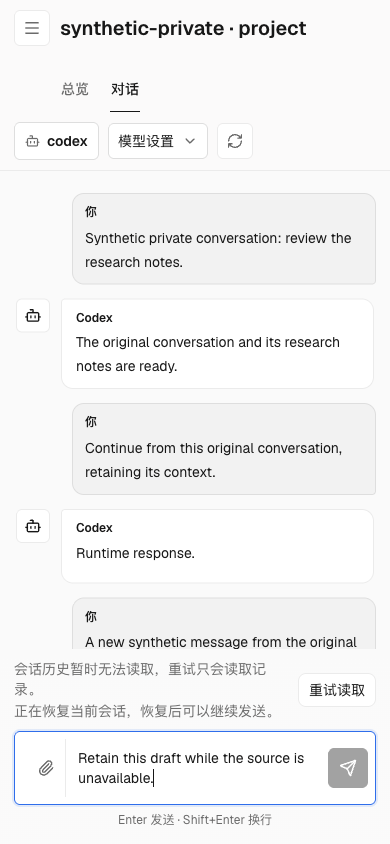
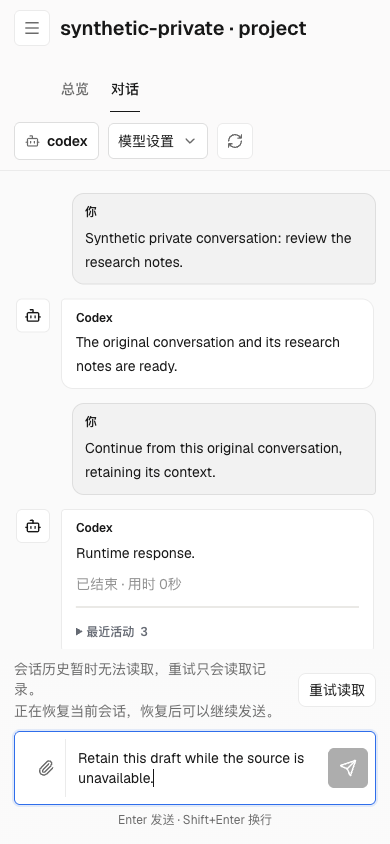
refactor(chat): keep source readback outside configuration controls

Changed region(s): [[0.1846, 0.6777, 0.9231, 0.7701], [0.3385, 0.6777, 0.4615, 0.7085]]

diff --git a/apps/presentation/dashboard/src/features/personal-workspace/channel-header.tsx b/apps/presentation/dashboard/src/features/personal-workspace/channel-header.tsx
@@ -161,11 +161,7 @@ export function ChannelHeader({
 
   const runtimeControl = scopeUnavailable || agentWorkActive ? null : readOnlySourceLabel ? (
     <span className="personal-read-only-source" title={t("header.readOnlySourceDescription", { source: readOnlySourceLabel })}><Eye size={15} />{readOnlySourceLabel}<small>{t("common.readOnly")}</small></span>
-  ) : originalConversationTitle ? <>
-    <span className="personal-read-only-source"><Bot size={15} />{selectedAgentId}</span>
-    <ChatModelMenu agentId={selectedAgentId} ordinary={false} readback={selectedAgentModelReadback}
-      model={selectedAgentModelId} effort={selectedAgentReasoningEffort} />
-  </> : <>
+  ) : <>
     <WorkspaceSelect
             ariaLabel={t("header.selectChatRuntime")}
             className="personal-agent-select"
@@ -218,6 +214,14 @@ export function ChannelHeader({
       value={conversationScope.value}
     />
   ) : null;
+  // Source continuation reports its immutable executor; ordinary conversation
+  // configuration remains with its own controls.
+  const sourceRuntimeControl = !originalConversationTitle || scopeUnavailable || agentWorkActive || readOnlySourceLabel
+    ? runtimeControl : <>
+      <span className="personal-read-only-source"><Bot size={15} />{selectedAgentId}</span>
+      <ChatModelMenu agentId={selectedAgentId} ordinary={false} readback={selectedAgentModelReadback}
+        model={selectedAgentModelId} effort={selectedAgentReasoningEffort} />
+    </>;
 
   return (
     <header className="personal-channel-header" data-goal-selected={Boolean(selectedGoal)} data-workspace-scope={workspaceGrantLabel ? "true" : undefined}>
@@ -293,7 +297,7 @@ export function ChannelHeader({
           <button aria-label={t("header.goalSettings")} title={t("header.goalSettingsDescription")} className="personal-icon-button personal-goal-settings-action" onClick={onOpenGoalCapabilities} type="button"><SlidersHorizontal aria-hidden size={17} /></button>
         ) : null}
         {scopeControl}
-        {!selectedGoal ? runtimeControl : null}
+        {!selectedGoal ? sourceRuntimeControl : null}
         {onRefresh ? (
           <span className={`personal-refresh-control is-${refreshState ?? "idle"}`}>
             {refreshState === "loading" ? <small>{t("header.refreshing")}</small> : refreshState === "error" ? <small>{t("header.refreshFailed")}</small> : null}
